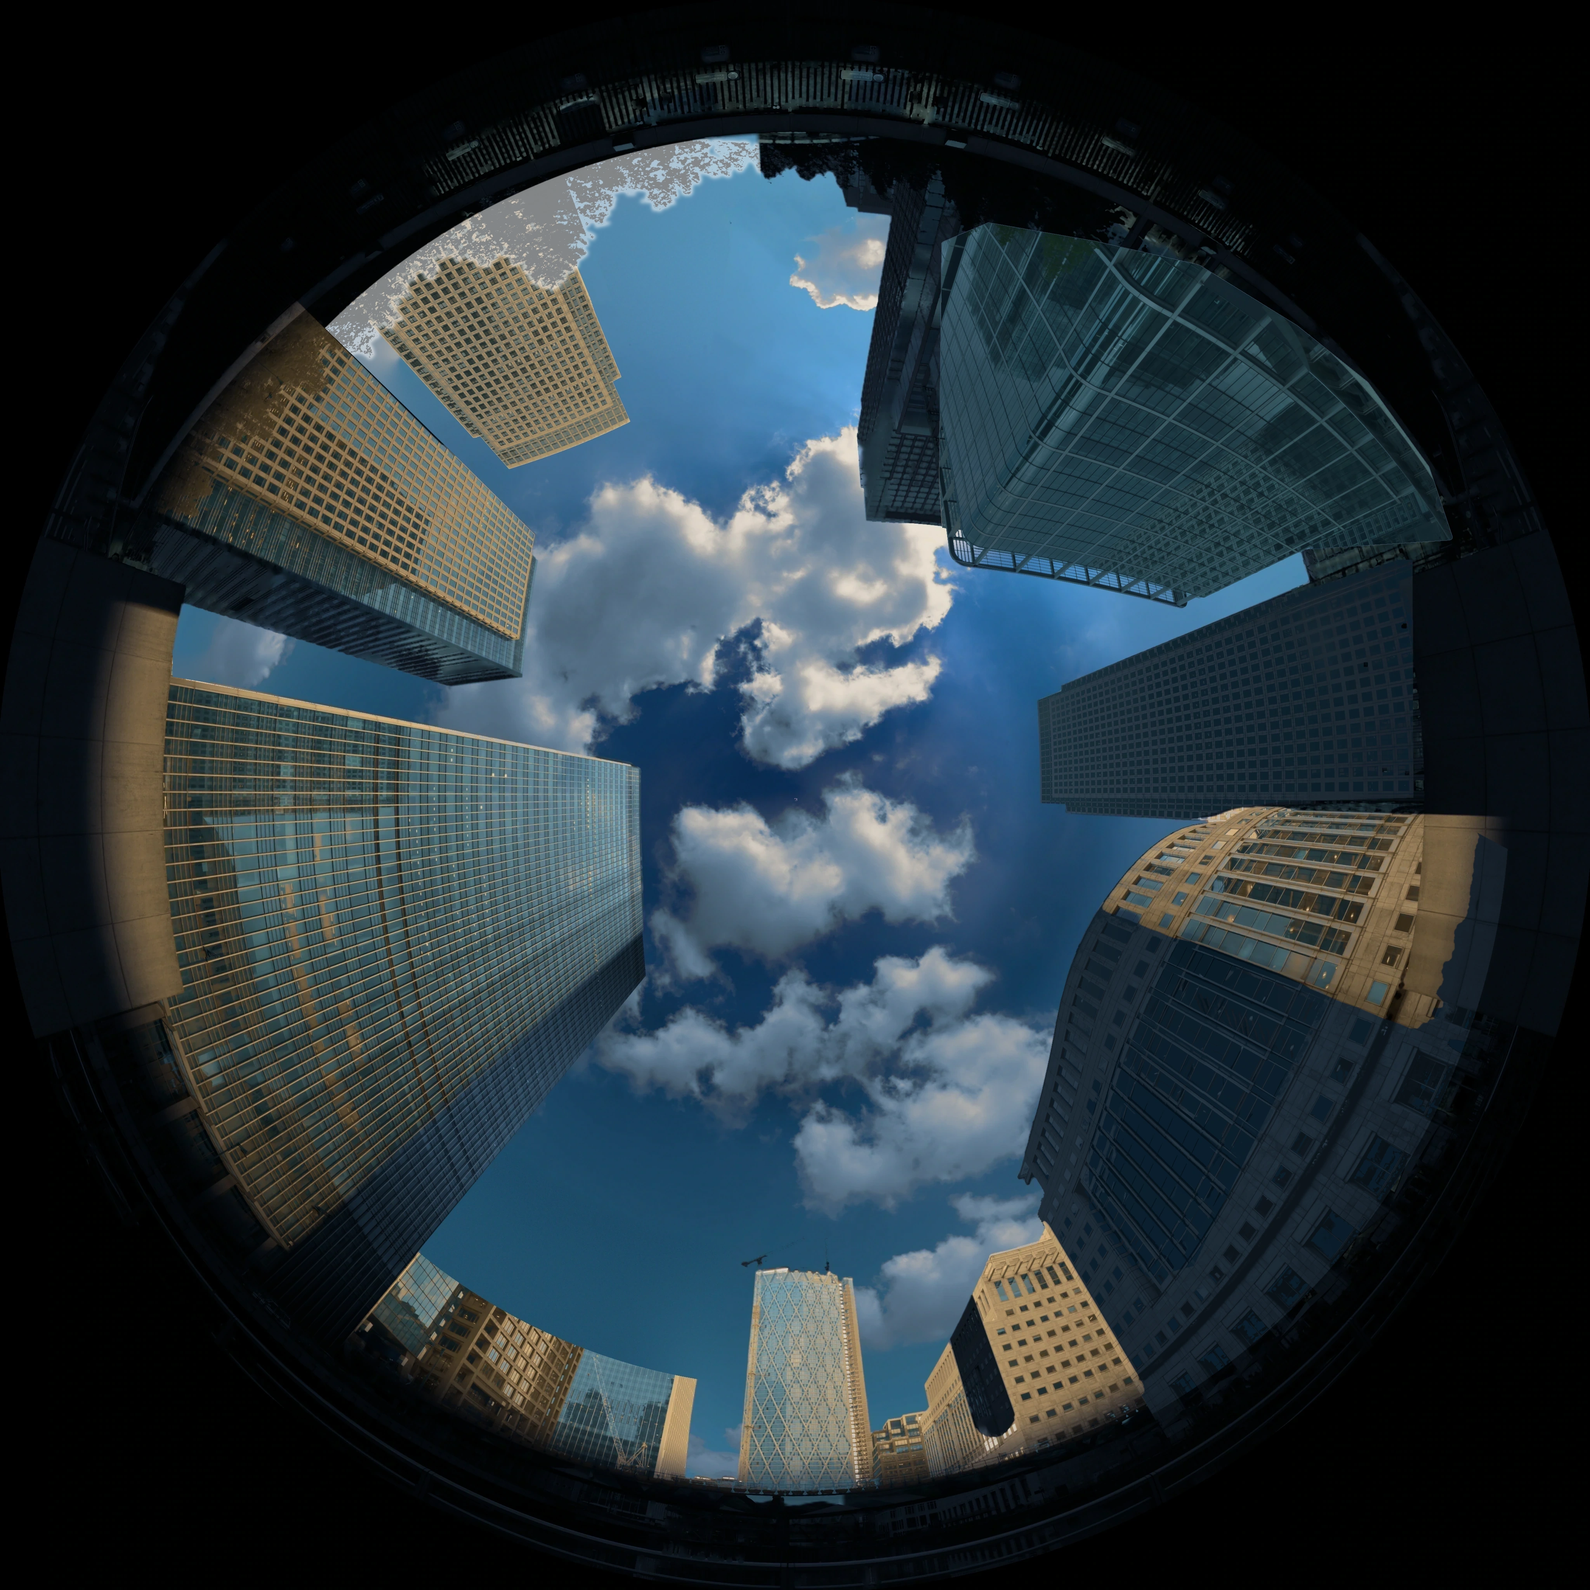
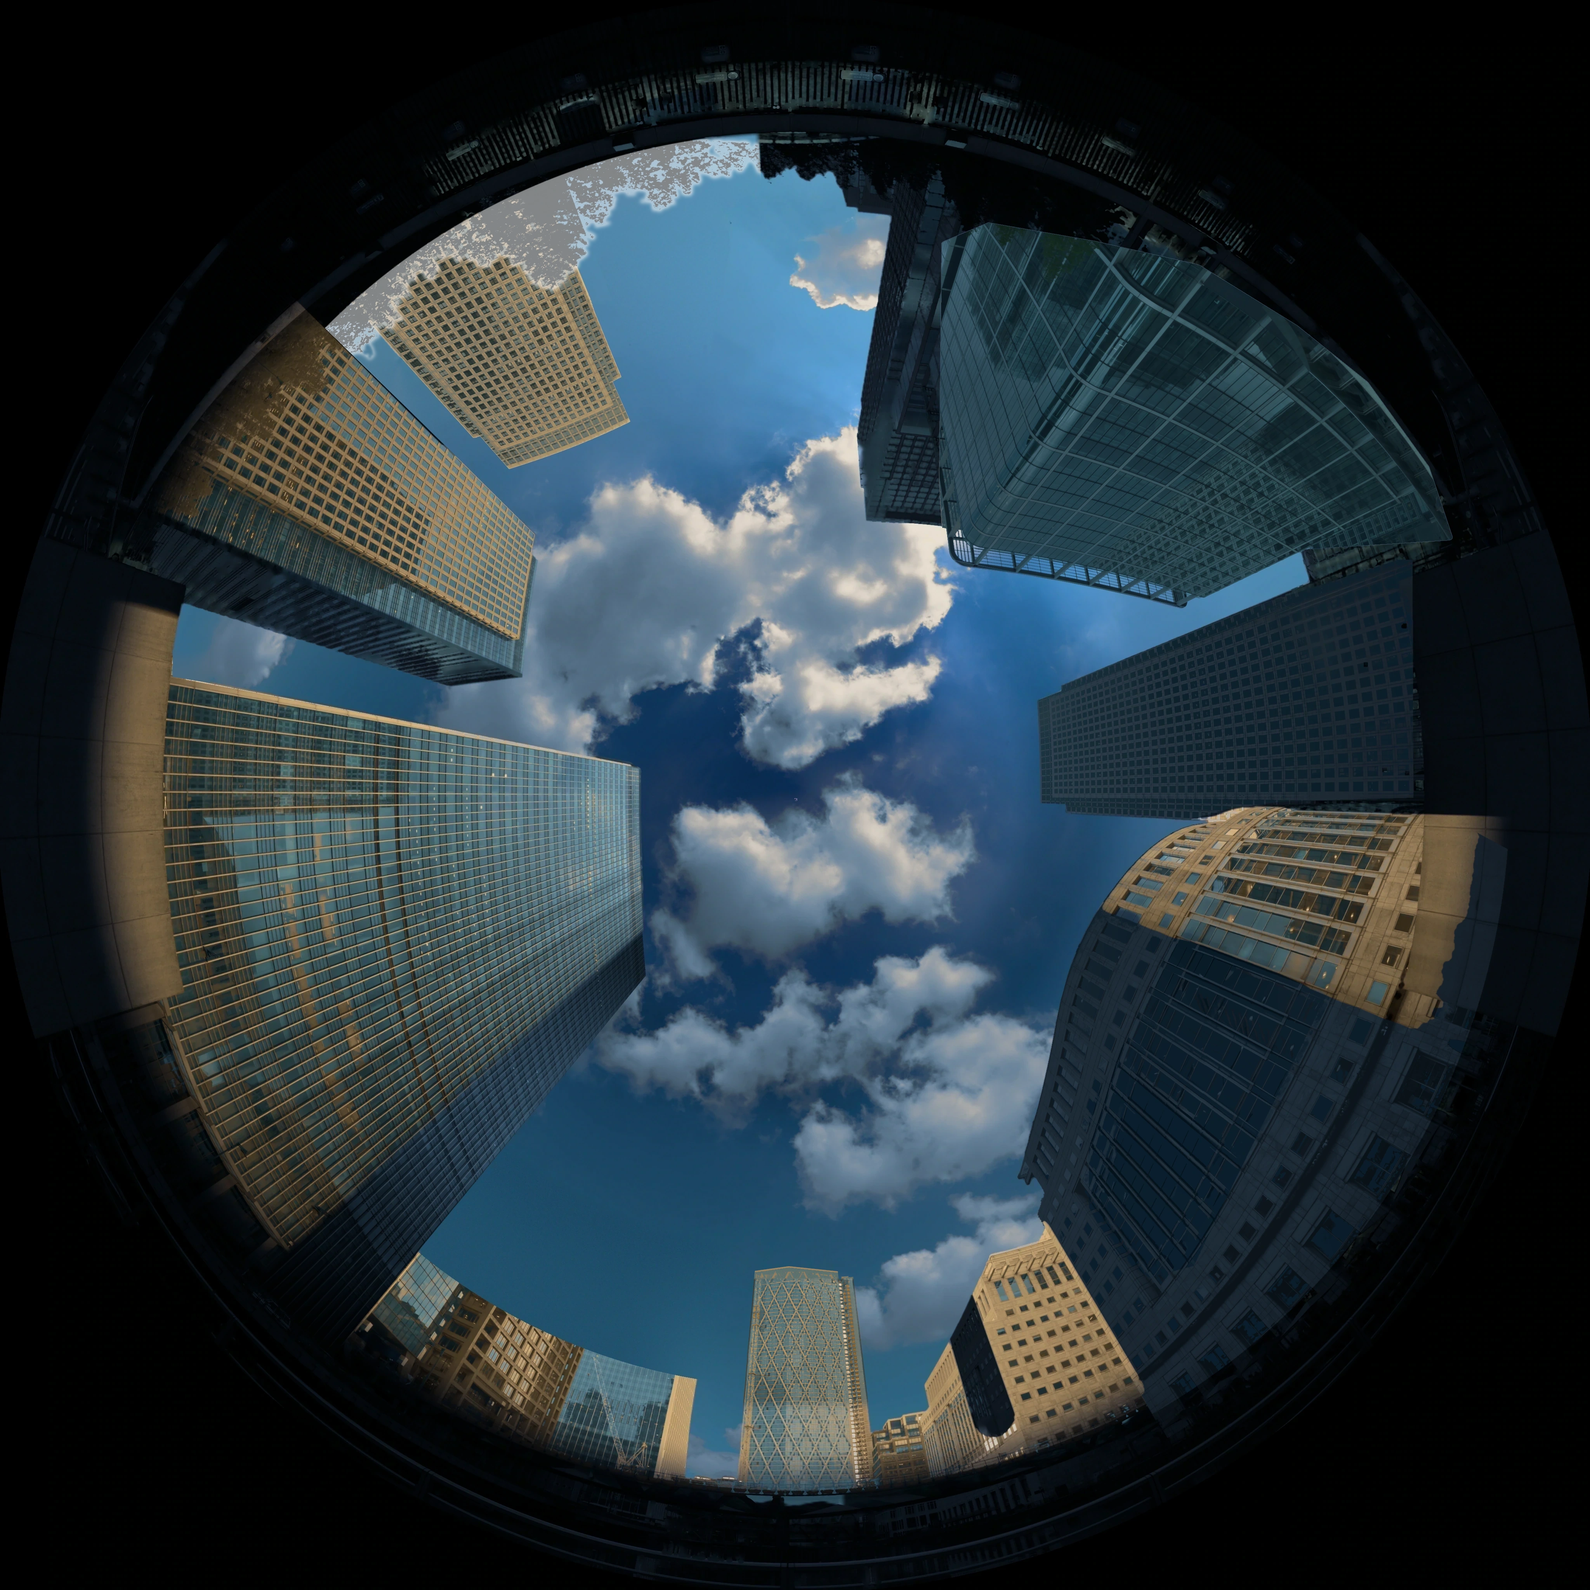
Lab: climb focal-length round 2
Claude-Session: https://claude.ai/code/session_01RqENhngNCzDFmJWDZueXGV

Changed region(s): [[0.4688, 0.7812, 0.5625, 0.9062], [0.2188, 0.2188, 0.25, 0.25]]

diff --git a/tools/depth/bakes/focal-length/crown_cap.py b/tools/depth/bakes/focal-length/crown_cap.py
@@ -1,0 +1,346 @@
+# The plate pass after stone_flank.py: the bottom centre and the left edge of
+# the 10 mm hero (outer plate only; both sit past the inset's rho 0.5).
+#
+#  1. hooks   two crane hooks and their hairline cables hang in open sky over
+#             the small distant diagrid tower (outer px about 1900..2140 x
+#             3180..3275): what was left of the two tower cranes once their
+#             jibs went. Pixels darker than the median sky round them, in the
+#             open sky above the tower's roof, become sky: a push-pull fill
+#             from the clear sky round them with that sky's own fine noise,
+#             the fill stone_flank.py used for the shard.
+#  2. crown   the tower is still being topped out in the capture, so its crown
+#             is an open truss with sky through it, and the plate drew it as a
+#             ragged, torn edge. The native 16K capture holds a clean outline:
+#             a parapet beam and rail that run in two straight runs to a
+#             shallow apex. That outline is found in the capture (a robust
+#             two-line fit of the truss's top edge, the cranes left out as
+#             outliers), and the crown band is rebuilt under it, sampled from
+#             the capture straight into the plate's geometry (area-averaged,
+#             ss x ss taps a pixel): the truss's members, which stand dark
+#             against the sky held down behind them, are drawn in the regraded
+#             diagrid's stone and the closed gaps in its glass, carrying the
+#             capture's texture, so the diagrid runs on up into a clean
+#             parapet. Above the line is sky.
+#  3. stone   the tower's diagrid was blown to a pale, almost neutral cream
+#             that read as an overexposed cut-out next to the gold towers. Its
+#             stone (warm pixels, a soft key on R - B) is ranked onto the
+#             sunlit gold tower's colour curve: its luma quantile is mapped to
+#             the gold stone's luma at the same rank and its chroma moved onto
+#             the gold stone's, keeping its own variation. The glass between
+#             is held down and deepened to sit under it.
+#  4. left    at the left edge (outer px about 900..1060 x 850..1000) the
+#             street trees' lowest twigs crossed into the frame as dark
+#             speckles, and the sky in that gap between the two gold towers
+#             was a pale grey-white strip (S 0.2) that never reached the cyan
+#             of the rest of the gap. The twigs that reach the frame edge
+#             become sky (and leave the crisp mask), and the gap's sky is
+#             re-tinted onto a smooth model of its own gradient, fitted on the
+#             clean cyan further down the gap, keeping its fine texture.
+#
+# python3 -I crown_cap.py outer_in.webp canary_wharf_16k.hdr outer_out.webp \
+#     ['{params}'] [debug_prefix]
+# Run it on stone_flank.py's outer.webp (the published plate).
+import sys, json, numpy as np, cv2
+from PIL import Image
+
+LUMA = np.array([0.2126, 0.7152, 0.0722], np.float32)
+P = dict(q=93, TM=95.0, ss=4,
+         box=[1840, 3120, 2300, 3700],          # x0 y0 x1 y1, plate px
+         span=[1946.0, 2158.5],                  # the main crown's corners (x)
+         apex=[2000, 2070],                      # where the two runs may meet
+         topY=2.4, capY=0.7, beam=3.0, crownTex=0.35, bandLo=3297, bandF=7,
+         hookBox=[1856, 3150, 2205, 3300], hookT=-0.009,
+         gold=[2560, 3200, 2880, 3550], towerX=2236, towerY=3640,
+         stoneK=(0.02, 0.07), stoneSig=3.0, glassK=0.55, glassKeep=0.4, glassSat=1.6, goldTop=96, chromaKeep=0.35,
+         left=dict(p0=[1011.0, 840.0], p1=[900.0, 977.0], vis=[1030.0, 927.0],
+                   box=[860, 800, 1140, 1060], clean=[1030, 940, 1260, 1230],
+                   reach=-20.0, leafV=0.40, seed=[1120, 1040]))
+args = sys.argv[1:]
+DBG = ''
+if len(args) > 3 and args[3].startswith('{'):
+    P.update(json.loads(args[3])); DBG = args[4] if len(args) > 4 else ''
+elif len(args) > 3:
+    DBG = args[3]
+
+s2l = lambda v: np.where(v <= 0.04045, v / 12.92, ((v + 0.055) / 1.055) ** 2.4).astype(np.float32)
+def l2s(v):
+    v = np.clip(v, 0, 1)
+    return np.where(v <= 0.0031308, v * 12.92, 1.055 * np.power(v, 1 / 2.4) - 0.055)
+def smooth(a, b, x):
+    t = np.clip((x - a) / (b - a), 0, 1); return t * t * (3 - 2 * t)
+ell = lambda r: cv2.getStructuringElement(cv2.MORPH_ELLIPSE, (2 * r + 1, 2 * r + 1))
+
+def pushpull(img, w):
+    if min(img.shape[:2]) < 8:
+        m = (img * w[..., None]).sum((0, 1)) / max(w.sum(), 1e-6)
+        return np.broadcast_to(m, img.shape).astype(np.float32)
+    h, wd = img.shape[:2]
+    num = cv2.pyrDown(img * w[..., None]); den = cv2.pyrDown(w)
+    sub = num / np.maximum(den, 1e-6)[..., None]
+    c = pushpull(sub, np.minimum(den * 4, 1))
+    up = cv2.pyrUp(c, dstsize=(wd, h))
+    return img * w[..., None] + up * (1 - w[..., None])
+
+def grain(shape, ref, mask, seed, sig=1.5):
+    # the sky's own fine noise: per-channel high-pass sd of the clear sky
+    hp = ref - cv2.GaussianBlur(ref, (0, 0), sig)
+    rng = np.random.default_rng(seed)
+    g = np.zeros(shape, np.float32)
+    for c in range(3):
+        g[..., c] = rng.standard_normal(shape[:2]).astype(np.float32) * float(np.std(hp[..., c][mask]))
+    return g
+
+O8 = np.asarray(Image.open(args[0]).convert('RGBA')).copy()
+N = O8.shape[0]
+Olin = s2l(O8[..., :3].astype(np.float32) / 255)
+out = Olin.copy()
+fix = np.zeros(O8.shape[:2], np.float32)   # how much of each pixel is new
+alpha = O8[..., 3].astype(np.float32)
+
+# ---- the native capture, cropped to az -20..20, theta 0..90 (it wraps at 0)
+hdr = cv2.imread(args[1], cv2.IMREAD_UNCHANGED)
+HH, WW = hdr.shape[:2]
+K = int(20 / 360 * WW)
+CAP = np.ascontiguousarray(np.concatenate([hdr[:HH // 2, WW - K:], hdr[:HH // 2, :K]], 1)[..., ::-1]).astype(np.float32)
+del hdr
+def native(x0, y0, x1, y1, ss):
+    gx = (x0 + (np.arange((x1 - x0) * ss) + 0.5) / ss) / N * 2 - 1
+    gy = (y0 + (np.arange((y1 - y0) * ss) + 0.5) / ss) / N * 2 - 1
+    a = gx[None, :] + 0 * gy[:, None]; b = gy[:, None] + 0 * gx[None, :]
+    rho = np.hypot(a, b); az = np.degrees(np.arctan2(a, b))
+    mu = (az / 360 * WW - 0.5 + K).astype(np.float32)
+    mv = (rho * P['TM'] / 180 * HH - 0.5).astype(np.float32)
+    return cv2.remap(CAP, mu, mv, cv2.INTER_LINEAR, borderMode=cv2.BORDER_REPLICATE)
+def down(a, ss):
+    h, w = a.shape[0] // ss, a.shape[1] // ss
+    return a.reshape(h, ss, w, ss, *a.shape[2:]).mean((1, 3))
+
+bx0, by0, bx1, by1 = P['box']
+ss = P['ss']
+NS = native(bx0, by0, bx1, by1, ss)                    # ss x ss taps a pixel
+YS = NS @ LUMA
+NP = down(NS, ss)                                      # the capture at plate px
+yy, xx = np.mgrid[by0:by1, bx0:bx1].astype(np.float32)
+O = out[by0:by1, bx0:bx1]
+Y8 = O8[by0:by1, bx0:bx1, :3].astype(np.float32) / 255
+
+# ---- 2. the crown's outline, from the capture
+xl, xr = P['span']
+cols = np.arange(int(np.ceil(xl * ss - bx0 * ss)) + 2, int(np.floor(xr * ss - bx0 * ss)) - 2)
+r0 = int((3235 - by0) * ss)
+tw = YS[r0:, :] < P['topY']
+run = tw[:-2] & tw[1:-1] & tw[2:]
+top = np.array([np.argmax(run[:, c]) for c in cols], np.float64) + r0
+cx = (cols + 0.5) / ss + bx0; cy = top / ss + by0
+def robust_line(x, y):
+    # the crane masts and the jib stand up out of the line, never below it:
+    # start from the points near the lowest common edge, then trim above hard
+    keep = y > np.median(y) - 3
+    for _ in range(10):
+        cf = np.polyfit(x[keep], y[keep], 1)
+        res = y - np.polyval(cf, x)
+        s = max(1.4826 * np.median(np.abs(res[keep])), 0.25)
+        keep = (res > -2.5 * s) & (res < 4 * s)
+    return cf, keep
+best = None
+for xa in np.arange(P['apex'][0], P['apex'][1], 1.0):
+    L = cx <= xa; R = cx >= xa
+    cl, kl = robust_line(cx[L], cy[L]); cr, kr = robust_line(cx[R], cy[R])
+    e = np.abs(cy[L] - np.polyval(cl, cx[L]))[kl].sum() + np.abs(cy[R] - np.polyval(cr, cx[R]))[kr].sum()
+    e += 0.5 * ((~kl).sum() + (~kr).sum())
+    if best is None or e < best[0]:
+        best = (e, xa, cl, cr)
+_, xa, cl, cr = best
+print('crown apex x %.1f  left %s  right %s' % (xa, np.round(cl, 4), np.round(cr, 4)))
+def roof(x):
+    return np.maximum(np.polyval(cl, x), np.polyval(cr, x)) if cl[0] < cr[0] else np.where(x < xa, np.polyval(cl, x), np.polyval(cr, x))
+# at ss: the crown is solid under the line between its corners; outside the
+# corners (the hoist core on the right, the slot next to it) the capture's own
+# matte, cut at the line extended so no mast or jib stands above it
+xS = bx0 + (np.arange((bx1 - bx0) * ss) + 0.5) / ss
+yS = by0 + (np.arange((by1 - by0) * ss) + 0.5) / ss
+RS = roof(xS)
+natA = 1 - smooth(np.log(1.2), np.log(2.6), np.log(np.maximum(YS, 1e-4)))
+inside = (xS >= xl) & (xS <= xr)
+solid = (yS[:, None] >= RS[None, :]) & inside[None, :]
+core = ~inside[None, :] & (yS[:, None] >= RS[None, :] + 0.0)
+AS = np.where(inside[None, :], solid.astype(np.float32), natA * core)
+A = down(AS, ss)                                       # crown coverage at plate px
+natAP = down(natA, ss)
+# the band: from above the line down to bandLo, inside the crown's width
+band = (yy < P['bandLo']) & (yy > roof(xx) - 16) & (xx > xl - 12) & (xx < xr + 46)
+wB = band * (1 - smooth(P['bandLo'] - P['bandF'], P['bandLo'], yy))
+
+# ---- 1. the hooks and cables, and the sky
+hx0, hy0, hx1, hy1 = P['hookBox']
+Ys8 = Y8 @ LUMA
+bgm = cv2.medianBlur(np.ascontiguousarray((Ys8 * 255).astype(np.uint8)), 41).astype(np.float32) / 255
+hk = Ys8 - bgm < P['hookT']
+hk &= (xx >= hx0) & (xx < hx1) & (yy >= hy0) & (yy < hy1) & (yy < roof(xx) - 1)
+hk = cv2.dilate(hk.astype(np.uint8), ell(2)) > 0
+hk &= (yy < roof(xx) + 2)
+print('hook px', int(hk.sum()))
+blue = (Y8[..., 2] > Y8[..., 0] + 0.06) & (Y8.max(-1) > 0.35)
+towerOld = cv2.dilate(((natAP > 0.03) | ~blue).astype(np.uint8), ell(3)) > 0
+skyW = blue & ~towerOld & ~(cv2.dilate(hk.astype(np.uint8), ell(3)) > 0) & ~(band & (yy > roof(xx) - 8))
+SKY = pushpull(np.ascontiguousarray(O), skyW.astype(np.float32))
+SKY = SKY + grain(O.shape, O, skyW, 31)
+
+# ---- 3. the tower's stone, ranked onto the gold tower's curve
+gx0, gy0, gx1, gy1 = P['gold']
+G8 = O8[gy0:gy1, gx0:gx1, :3].astype(np.float32) / 255
+Gl = s2l(G8)
+gst = (G8[..., 0] > G8[..., 2] + 0.08) & (G8.max(-1) > 0.3)
+gY = Gl[gst] @ LUMA
+gq = np.percentile(gY, np.linspace(0, 100, 101))
+gmed = np.median(Gl[gst] / np.maximum(gY, 1e-5)[:, None], 0)
+# the key comes from the capture: under the overcast the diagrid's members and
+# the floor bands are warm grey and the glass cool, in thin lines, so a
+# high-pass of the capture's log R/B finds them, and broad warm reflections
+# in the glass (which the plate had drawn as cream blotches) stay glass
+rbN = np.log(np.maximum(NP[..., 0], 1e-4) / np.maximum(NP[..., 2], 1e-4))
+rbW = np.maximum(natAP, 1e-3)
+rbH = rbN - cv2.GaussianBlur(rbN * rbW, (0, 0), P['stoneSig']) / np.maximum(cv2.GaussianBlur(rbW, (0, 0), P['stoneSig']), 1e-3)
+k = smooth(P['stoneK'][0], P['stoneK'][1], rbH)
+# in the crown the truss's members are what stands dark against the sky
+# held down behind them: stone; the closed gaps between them are glass
+YC = down(np.minimum(YS, P['capY']), ss)
+kC = 1 - smooth(0.6 * P['capY'], 0.92 * P['capY'], YC)
+wK = (yy < P['bandLo']) * (1 - smooth(P['bandLo'] - P['bandF'], P['bandLo'], yy))
+k = kC * wK + k * (1 - wK)
+# the parapet beam along the new roof line is stone
+k = np.maximum(k, (yy < roof(xx) + P['beam']) * (yy > roof(xx) - 4) * (xx > xl - 2) * (xx < xr + 2))
+# statistics from the old body (stone and cool glass), under the band
+bodyT = (natAP > 0.98) & (yy > P['bandLo']) & (xx < P['towerX']) & (yy < P['towerY'] - 40)
+ty0 = O @ LUMA
+ch0 = O / np.maximum(ty0, 1e-5)[..., None]
+st = bodyT & (k > 0.6)
+sq = np.percentile(ty0[st], np.linspace(0, 100, 101))
+smed = np.median(ch0[st], 0)
+gl = bodyT & (k < 0.1) & (ch0[..., 2] > ch0[..., 0])
+glmed = np.median(ch0[gl], 0)
+glmed = 1 + (glmed - 1) * P['glassSat']
+gq = np.minimum(gq, gq[P['goldTop']])   # the gold's specular top is not stone
+print('stone luma quantiles small', np.round(sq[[10, 50, 90]], 3), 'gold', np.round(gq[[10, 50, 90]], 3))
+print('chroma gold', np.round(gmed, 3), 'small stone', np.round(smed, 3), 'cool glass', np.round(glmed, 3))
+Q = np.linspace(0, 100, 101)
+def regrade(img):
+    ty = img @ LUMA
+    ch = img / np.maximum(ty, 1e-5)[..., None]
+    stone = (gmed + (ch - smed) * P['chromaKeep']) * np.interp(np.interp(ty, sq, Q), Q, gq)[..., None]
+    # the glass: held down, onto the cool glass's own colour (the panes that
+    # read as sky, not the panes the plate warmed into cream)
+    glass = (glmed + (ch - glmed) * P['glassKeep']) * (ty * P['glassK'])[..., None]
+    return np.maximum(stone * k[..., None] + glass * (1 - k[..., None]), 0)
+
+# compose: the body regraded, the band (regraded crown over sky), the hooks
+T = natAP * (xx < P['towerX']) * (1 - smooth(P['towerY'] - 40, P['towerY'], yy))
+new = O.copy()
+new = regrade(O) * T[..., None] + new * (1 - T[..., None])
+# the crown, in the regraded body's own stone and glass: its members (k) as
+# the diagrid, the closed gaps as the panes, carrying the capture's texture
+# and the body's own fine noise
+RB = regrade(O)
+bodyS = bodyT & (k > 0.6); bodyG = bodyT & (k < 0.1)
+stoneC = np.median(RB[bodyS], 0); glassC = np.median(RB[bodyG], 0)
+tex = np.clip((YC / np.maximum(cv2.GaussianBlur(YC, (0, 0), 4), 1e-4)) ** P['crownTex'], 0.8, 1.2)
+crown = (k[..., None] * stoneC + (1 - k[..., None]) * glassC) * tex[..., None]
+crown = np.maximum(crown + grain(O.shape, RB, bodyG, 53) * 0.4, 0)
+print('crown stone', np.round(stoneC, 3), 'glass', np.round(glassC, 3))
+Cb = A[..., None] * crown + (1 - A[..., None]) * SKY
+new = Cb * wB[..., None] + new * (1 - wB[..., None])
+ha = np.maximum(cv2.GaussianBlur(hk.astype(np.float32), (0, 0), 1.0), hk)
+ha *= 1 - wB
+new = SKY * ha[..., None] + new * (1 - ha[..., None])
+out[by0:by1, bx0:bx1] = new
+fix[by0:by1, bx0:bx1] = np.maximum(np.maximum(wB, ha), T)
+print('stone px', int(st.sum()), 'glass px', int(gl.sum()), 'gold px', int(gst.sum()))
+
+# ---- 4. the left edge
+Lp = P['left']
+lx0, ly0, lx1, ly1 = Lp['box']
+L8 = O8[ly0:ly1, lx0:lx1].astype(np.float32) / 255
+Ll = Olin[ly0:ly1, lx0:lx1]
+lyy, lxx = np.mgrid[ly0:ly1, lx0:lx1].astype(np.float32)
+p0, p1, pv = (np.array(Lp[k_], np.float32) for k_ in ('p0', 'p1', 'vis'))
+tdir = (p1 - p0) / np.linalg.norm(p1 - p0); nrm = np.array([-tdir[1], tdir[0]])
+if np.dot(pv - p0, nrm) < 0: nrm = -nrm
+d = (lxx - p0[0]) * nrm[0] + (lyy - p0[1]) * nrm[1]     # + is inside the frame
+V = L8[..., :3].max(-1)
+inTree = L8[..., 3] < 0.995
+gapSky = (L8[..., 2] > L8[..., 0] + 0.03) & (V > 0.42)
+# the gap itself: the open sky (with the pale strip and the twigs in it)
+# connected to its clean cyan, not the panes of the towers either side
+bld = (L8[..., 0] > L8[..., 2] + 0.02) & (V > 0.3)
+open_ = (gapSky | (L8[..., 2] > L8[..., 0] - 0.01) & (V > 0.5)) & ~bld
+n, lab = cv2.connectedComponents(open_.astype(np.uint8), connectivity=4)
+gap = lab == lab[Lp['seed'][1] - ly0, Lp['seed'][0] - lx0]
+gapSky &= gap
+leaf = (V < Lp['leafV']) & inTree & (cv2.dilate(gap.astype(np.uint8), ell(4)) > 0)
+n, lab, stt, _ = cv2.connectedComponentsWithStats(leaf.astype(np.uint8), 8)
+gone = np.zeros(leaf.shape, bool)
+for i in range(1, n):
+    b = lab == i
+    if d[b].max() > Lp['reach']:
+        # a twig that reaches the frame: small ones go whole, the canopy
+        # mass keeps what is well outside
+        gone |= b if stt[i, cv2.CC_STAT_AREA] < 900 else (b & (d > Lp['reach'] + 4))
+gone = cv2.dilate(gone.astype(np.uint8), ell(2)) > 0
+gone &= ~(gapSky & ~inTree)
+# only twigs against the sky: over the gold towers they stay
+gone &= ~(cv2.dilate(bld.astype(np.uint8), ell(5)) > 0)
+print('twig px', int(gone.sum()))
+# the gap's sky: a smooth model of its own gradient, fitted on the clean cyan
+cx0, cy0, cx1, cy1 = Lp['clean']
+G = Olin[cy0:cy1, cx0:cx1]; Gs = O8[cy0:cy1, cx0:cx1, :3].astype(np.float32) / 255
+gS = 1 - Gs.min(-1) / np.maximum(Gs.max(-1), 1e-5)
+gk = (Gs[..., 2] > Gs[..., 0] + 0.15) & (gS > 0.45) & (Gs.max(-1) > 0.45)
+gk = cv2.erode(gk.astype(np.uint8), ell(3)) > 0
+gyy, gxx = np.mgrid[cy0:cy1, cx0:cx1].astype(np.float32)
+def lb(x, y):
+    x = (x - 1000) / 200; y = (y - 1000) / 200
+    return np.stack([np.ones_like(x), x, y], -1)
+Ag = lb(gxx[gk], gyy[gk])
+gcf = [np.linalg.lstsq(Ag, G[..., c][gk], rcond=None)[0] for c in range(3)]
+model = np.stack([lb(lxx, lyy) @ gcf[c] for c in range(3)], -1)
+skyL = gapSky & ~gone & (V > 0.45)
+skyL &= ~(cv2.dilate((~gapSky).astype(np.uint8), ell(2)) > 0)
+low = pushpull(np.ascontiguousarray(cv2.GaussianBlur(Ll * skyL[..., None], (0, 0), 6) /
+               np.maximum(cv2.GaussianBlur(skyL.astype(np.float32), (0, 0), 6), 1e-4)[..., None]),
+               (cv2.GaussianBlur(skyL.astype(np.float32), (0, 0), 6) > 0.3).astype(np.float32))
+lowS = l2s(low); Sl = 1 - lowS.min(-1) / np.maximum(lowS.max(-1), 1e-5)
+wT = smooth(0.52, 0.40, Sl)
+# keep the fine texture (as a ratio) on the new tint
+ratio = Ll / np.maximum(low, 1e-4)
+tinted = model * np.clip(ratio, 0.8, 1.25)
+# the strip's palest pixels run neutral against the tower's edge
+skyMask = (gapSky | gone | ((L8[..., 2] > L8[..., 0] - 0.01) & (V > 0.5) & gap))
+wS = cv2.GaussianBlur((skyMask & ~(cv2.dilate((~skyMask).astype(np.uint8), ell(1)) > 0)).astype(np.float32), (0, 0), 0.8)
+wT = wT * wS
+newL = tinted * wT[..., None] + Ll * (1 - wT[..., None])
+# the twigs: push-pull from the re-tinted sky, with its grain
+refW = (skyL & ~(cv2.dilate(gone.astype(np.uint8), ell(3)) > 0)).astype(np.float32)
+fillL = pushpull(np.ascontiguousarray(newL), refW) + grain(Ll.shape, Ll, refW > 0, 47)
+gA = np.maximum(cv2.GaussianBlur(gone.astype(np.float32), (0, 0), 1.0), gone)
+newL = fillL * gA[..., None] + newL * (1 - gA[..., None])
+out[ly0:ly1, lx0:lx1] = newL
+fix[ly0:ly1, lx0:lx1] = np.maximum(wT, gA)
+# the cleared twigs leave the crisp mask, feathered
+aL = alpha[ly0:ly1, lx0:lx1]
+alpha[ly0:ly1, lx0:lx1] = aL + (255 - aL) * cv2.GaussianBlur(gone.astype(np.float32), (0, 0), 3) * (d > Lp['reach'] - 24)
+print('tint px', int((wT > 0.05).sum()), 'gap model', [np.round(g, 4) for g in gcf])
+
+o8 = O8.copy()
+f = fix[..., None] > 0.001
+o8[..., :3] = np.where(f, (l2s(out) * 255 + 0.5).astype(np.uint8), O8[..., :3])
+o8[..., 3] = np.clip(alpha + 0.5, 0, 255).astype(np.uint8)
+Image.fromarray(o8, 'RGBA').save(args[2], 'WEBP', quality=P['q'], method=6, exact=True, alpha_quality=100)
+print('changed px', int(f.sum()))
+if DBG:
+    def pair(x0, y0, x1, y1, s):
+        Image.fromarray(np.concatenate([O8[y0:y1, x0:x1, :3], o8[y0:y1, x0:x1, :3]], 1)).resize(
+            (2 * (x1 - x0) * s, (y1 - y0) * s), Image.LANCZOS).save(f'{DBG}{x0}_{y0}.png')
+    pair(1880, 3150, 2240, 3420, 2)
+    kv = (np.stack([k, T, np.zeros_like(k)], -1) * 255).astype(np.uint8)
+    Image.fromarray(np.concatenate([O8[by0:by1, bx0:bx1, :3], kv], 1)).save(f'{DBG}key.png')
+    pair(880, 820, 1100, 1000, 3)
